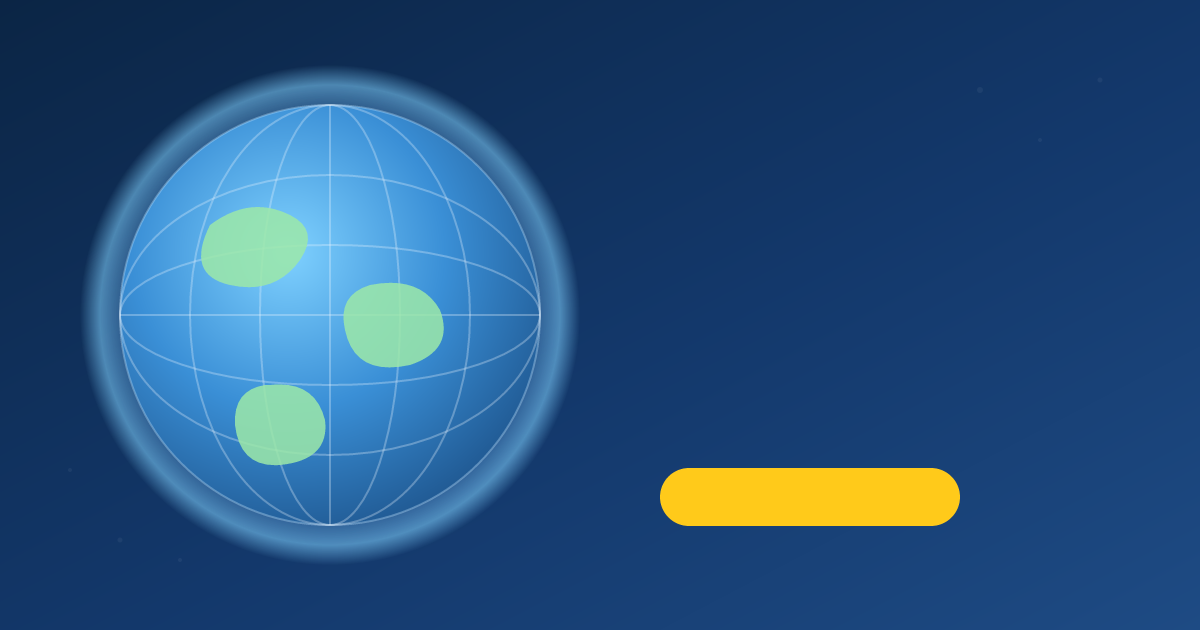
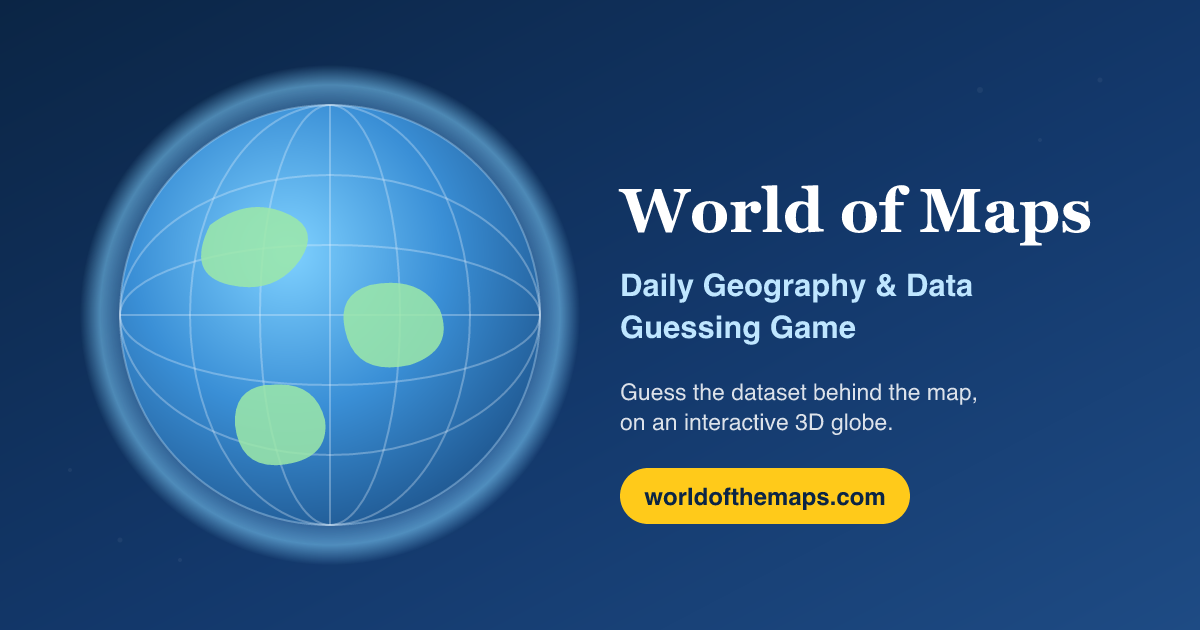
Fix the blank social card, and land the reveal on the globe
The OG card had no text on it. build-og-image.mjs passed loadSystemFonts: false
for deterministic output, which left resvg with no font to shape with, so every
<text> element rendered as nothing. Every link anyone has ever shared — Slack,
iMessage, LinkedIn, X, Discord — unfurled as a wordless blue globe with an empty
yellow pill. Determinism was the right instinct; a blank card was the price.

Enabling fonts then exposed a second bug: at the authored sizes the title ran
past the right edge and lost its last letters. Resized and re-laid-out the text
block so the longest line clears the 1200px canvas.

Rather than trade determinism for glyphs, the build now verifies the render:
- renders twice, with and without system fonts, and fails if they are identical
  (identical means nothing shaped, i.e. a fontless host about to ship a blank
  card again)
- checks the bounding box against the 1200×630 canvas and fails on overflow,
  which a byte-size check would never catch

Separately, the end-of-round reveal was a line of text. The two extreme
countries are now lifted and outlined on the globe, and the camera flies to the
highest one — a reveal on the far side of the planet is not a reveal. The
extremes are derived from isComplete rather than the guess handler, so they also
appear when a finished game is restored on reload, which they previously did not.

Claude-Session: https://claude.ai/code/session_0128x3SHNE6SjMLDrHbAAQKK

diff --git a/src/components/GlobeView.jsx b/src/components/GlobeView.jsx
@@ -3,7 +3,9 @@ import Globe from 'react-globe.gl'
 import { feature } from 'topojson-client'
 import './GlobeView.css'
 
-function GlobeView({ dataset, showTooltips = false }) {
+// `highlight` is a pair of iso_a3 codes ({ maxIso, minIso }) emphasised once a round ends,
+// so the reveal lands on the map rather than only in a line of text below it.
+function GlobeView({ dataset, showTooltips = false, highlight = null }) {
   const globeEl = useRef()
   const [globeSize, setGlobeSize] = useState({ width: 800, height: 600 })
   const [countries, setCountries] = useState([])
@@ -157,7 +159,8 @@ function GlobeView({ dataset, showTooltips = false }) {
             value: value,
             color: color,
             countryCode: iso2 || iso3,
-            countryName: countryName
+            countryName: countryName,
+            iso3,
           }
         })
         
@@ -174,6 +177,48 @@ function GlobeView({ dataset, showTooltips = false }) {
         setIsLoading(false)
       })
   }, [dataMap, getColor, themeUpdateTrigger])
+
+  // Rough centroid of a country's largest ring — enough to aim the camera, and avoids
+  // pulling in d3-geo for one calculation.
+  const centroidOf = (feature) => {
+    const geom = feature?.geometry
+    if (!geom) return null
+    const rings = geom.type === 'Polygon' ? [geom.coordinates[0]] : (geom.coordinates || []).map(p => p[0])
+    let best = null
+    for (const ring of rings) {
+      if (Array.isArray(ring) && (!best || ring.length > best.length)) best = ring
+    }
+    if (!best?.length) return null
+    let lng = 0
+    let lat = 0
+    for (const [x, y] of best) { lng += x; lat += y }
+    return { lat: lat / best.length, lng: lng / best.length }
+  }
+
+  // Fly to the highest-value country when a round ends. A reveal the player cannot see is
+  // not a reveal; the globe is usually showing the wrong hemisphere when the game finishes.
+  useEffect(() => {
+    if (!highlight?.maxIso || !countries.length || !globeEl.current) return
+    const target = countries.find(c => c.iso3 === highlight.maxIso)
+    const at = centroidOf(target)
+    if (!at) return
+    try {
+      globeEl.current.controls().autoRotate = false
+      globeEl.current.pointOfView({ lat: at.lat, lng: at.lng, altitude: 2.4 }, 1600)
+      // Resume the idle spin once the camera has settled, so the globe doesn't freeze.
+      const t = setTimeout(() => {
+        try { globeEl.current.controls().autoRotate = true } catch { /* unmounted */ }
+      }, 4200)
+      return () => clearTimeout(t)
+    } catch { /* camera control is cosmetic */ }
+  }, [highlight, countries])
+
+  // globe.gl only re-evaluates the polygon accessors when the data array identity changes,
+  // so a new highlight needs a new array.
+  const highlightedCountries = useMemo(
+    () => (highlight ? countries.map(c => ({ ...c })) : countries),
+    [countries, highlight],
+  )
 
   // Handle window resize for responsive globe
   useEffect(() => {
@@ -253,11 +298,16 @@ function GlobeView({ dataset, showTooltips = false }) {
         globeImageUrl={globeImageUrl}
         
         // Use polygons instead of choropleth
-        polygonsData={countries}
+        polygonsData={highlightedCountries}
         polygonGeoJsonGeometry={d => d.geometry} // Extract just the geometry from the feature
         polygonCapColor={d => d.color}
         polygonSideColor={d => d.color}
-        polygonStrokeColor={() => 'rgba(255,255,255,0.15)'}
+        polygonStrokeColor={d => {
+          if (!highlight) return 'rgba(255,255,255,0.15)'
+          if (d.iso3 && d.iso3 === highlight.maxIso) return 'rgba(255, 245, 200, 0.95)'
+          if (d.iso3 && d.iso3 === highlight.minIso) return 'rgba(160, 225, 255, 0.95)'
+          return 'rgba(255,255,255,0.10)'
+        }}
         // capCurvatureResolution is in angular DEGREES, so a bigger number is a coarser cap.
         // At the old 5° a large country's cap was tessellated crudely enough to sag below its
         // own outline; 1° costs a few thousand triangles and follows the sphere properly.
@@ -265,7 +315,14 @@ function GlobeView({ dataset, showTooltips = false }) {
         // Note: `preserveDrawingBuffer` (needed for share-image capture) lets a screenshot read
         // the frame mid-draw, so screen captures of this globe show hatching that isn't on
         // screen. Judge rendering changes here in a live browser, not from a screenshot.
-        polygonAltitude={0.005}
+        polygonAltitude={d => {
+          // Lift the two extremes clear of the surface so they read at a glance. The base
+          // stays at the flat 0.005 the rest of the map uses.
+          if (highlight && d.iso3 && (d.iso3 === highlight.maxIso || d.iso3 === highlight.minIso)) {
+            return 0.06
+          }
+          return 0.005
+        }}
         polygonCapCurvatureResolution={1}
         polygonLabel={showTooltips ? (d => {
           const name = d.countryName || d.properties?.NAME || 'Unknown'

diff --git a/src/components/DailyGame.jsx b/src/components/DailyGame.jsx
@@ -76,6 +76,9 @@ function DailyGame() {
   const autoScrollRef = useRef({ active: false, userInteracted: false })
   const [shareSheetOpen, setShareSheetOpen] = useState(false)
   const [extremesLine, setExtremesLine] = useState(null)
+  // iso_a3 of the highest and lowest country, handed to the globe so the reveal shows on
+  // the map instead of only in a line of text.
+  const [extremesIso, setExtremesIso] = useState(null)
   // Hints removed
   const [showWinToast, setShowWinToast] = useState(false)
   const [featureModalOpen, setFeatureModalOpen] = useState(false)
@@ -193,6 +196,22 @@ function DailyGame() {
       () => gameStateRef.current && !gameStateRef.current.isComplete && gameStateRef.current.guesses.length > 0,
     )
   }, [gameState?.dataset?.challengeInfo?.dayIndex, isPastDay])
+
+  // Extremes reveal. Driven by isComplete rather than the guess handler so it also appears
+  // when a finished game is restored from localStorage on a reload.
+  useEffect(() => {
+    if (!gameState?.isComplete) return
+    const rows = (gameState.dataset?.data || []).filter(d => typeof d.value === 'number')
+    if (rows.length < 2) return
+    let min = rows[0]
+    let max = rows[0]
+    for (const d of rows) {
+      if (d.value < min.value) min = d
+      if (d.value > max.value) max = d
+    }
+    setExtremesLine(`${max.name} highest, ${min.name} lowest`)
+    if (max.iso_a3 && min.iso_a3) setExtremesIso({ maxIso: max.iso_a3, minIso: min.iso_a3 })
+  }, [gameState?.isComplete, gameState?.dataset])
 
   // Remove handle pulse after a few seconds
   useEffect(()=>{
@@ -430,15 +449,6 @@ function DailyGame() {
             }, 1600)
           }
         }
-        // Compute a single-line extremes summary
-        try {
-          const arr = (newGameState.dataset.data || []).filter(d => typeof d.value === 'number')
-          if (arr.length > 1) {
-            let min = arr[0], max = arr[0]
-            for (const d of arr) { if (d.value < min.value) min = d; if (d.value > max.value) max = d }
-            if (min && max) setExtremesLine(`${max.name} highest, ${min.name} lowest`)
-          }
-        } catch(_){}
         if (newGameState.isWon) {
           haptic('win')
           setShowWinToast(true)
@@ -799,7 +809,7 @@ function DailyGame() {
         </div>
       )}
       {/* Fullscreen Globe Background */}
-      <GlobeView dataset={gameState.dataset} showTooltips={showTooltips} />
+      <GlobeView dataset={gameState.dataset} showTooltips={showTooltips} highlight={extremesIso} />
       
       {/* Top Left - Game Title */}
       <div className="top-left-title">
@@ -1072,14 +1082,14 @@ function DailyGame() {
                 <h2><Icon name="check" /> Correct!</h2>
                 <p>The answer was: <strong>{gameState.dataset.title}</strong></p>
                 <p className="fun-fact">{gameState.dataset.funFact}</p>
-                {extremesLine && <p style={{fontSize:'0.7em',opacity:0.75,marginTop:6}}>{extremesLine}</p>}
+                {extremesLine && <p className="extremes-line">{extremesLine}</p>}
               </div>
             ) : (
               <div className="lose-message">
                 <h2><Icon name="close" /> Game Over!</h2>
                 <p>The answer was: <strong>{gameState.dataset.title}</strong></p>
                 <p>{gameState.dataset.description}</p>
-                {extremesLine && <p style={{fontSize:'0.7em',opacity:0.75,marginTop:6}}>{extremesLine}</p>}
+                {extremesLine && <p className="extremes-line">{extremesLine}</p>}
               </div>
             )}
             <div className="next-puzzle">

diff --git a/src/components/DailyGame.css b/src/components/DailyGame.css
@@ -821,3 +821,11 @@
   opacity: 0.5;
   text-align: center;
 }
+
+/* Extremes summary, colour-matched to the two countries lifted on the globe: warm for the
+   highest, cool for the lowest, so the text and the map read as one reveal. */
+.extremes-line {
+  font-size: 0.7em;
+  opacity: 0.8;
+  margin-top: 6px;
+}
